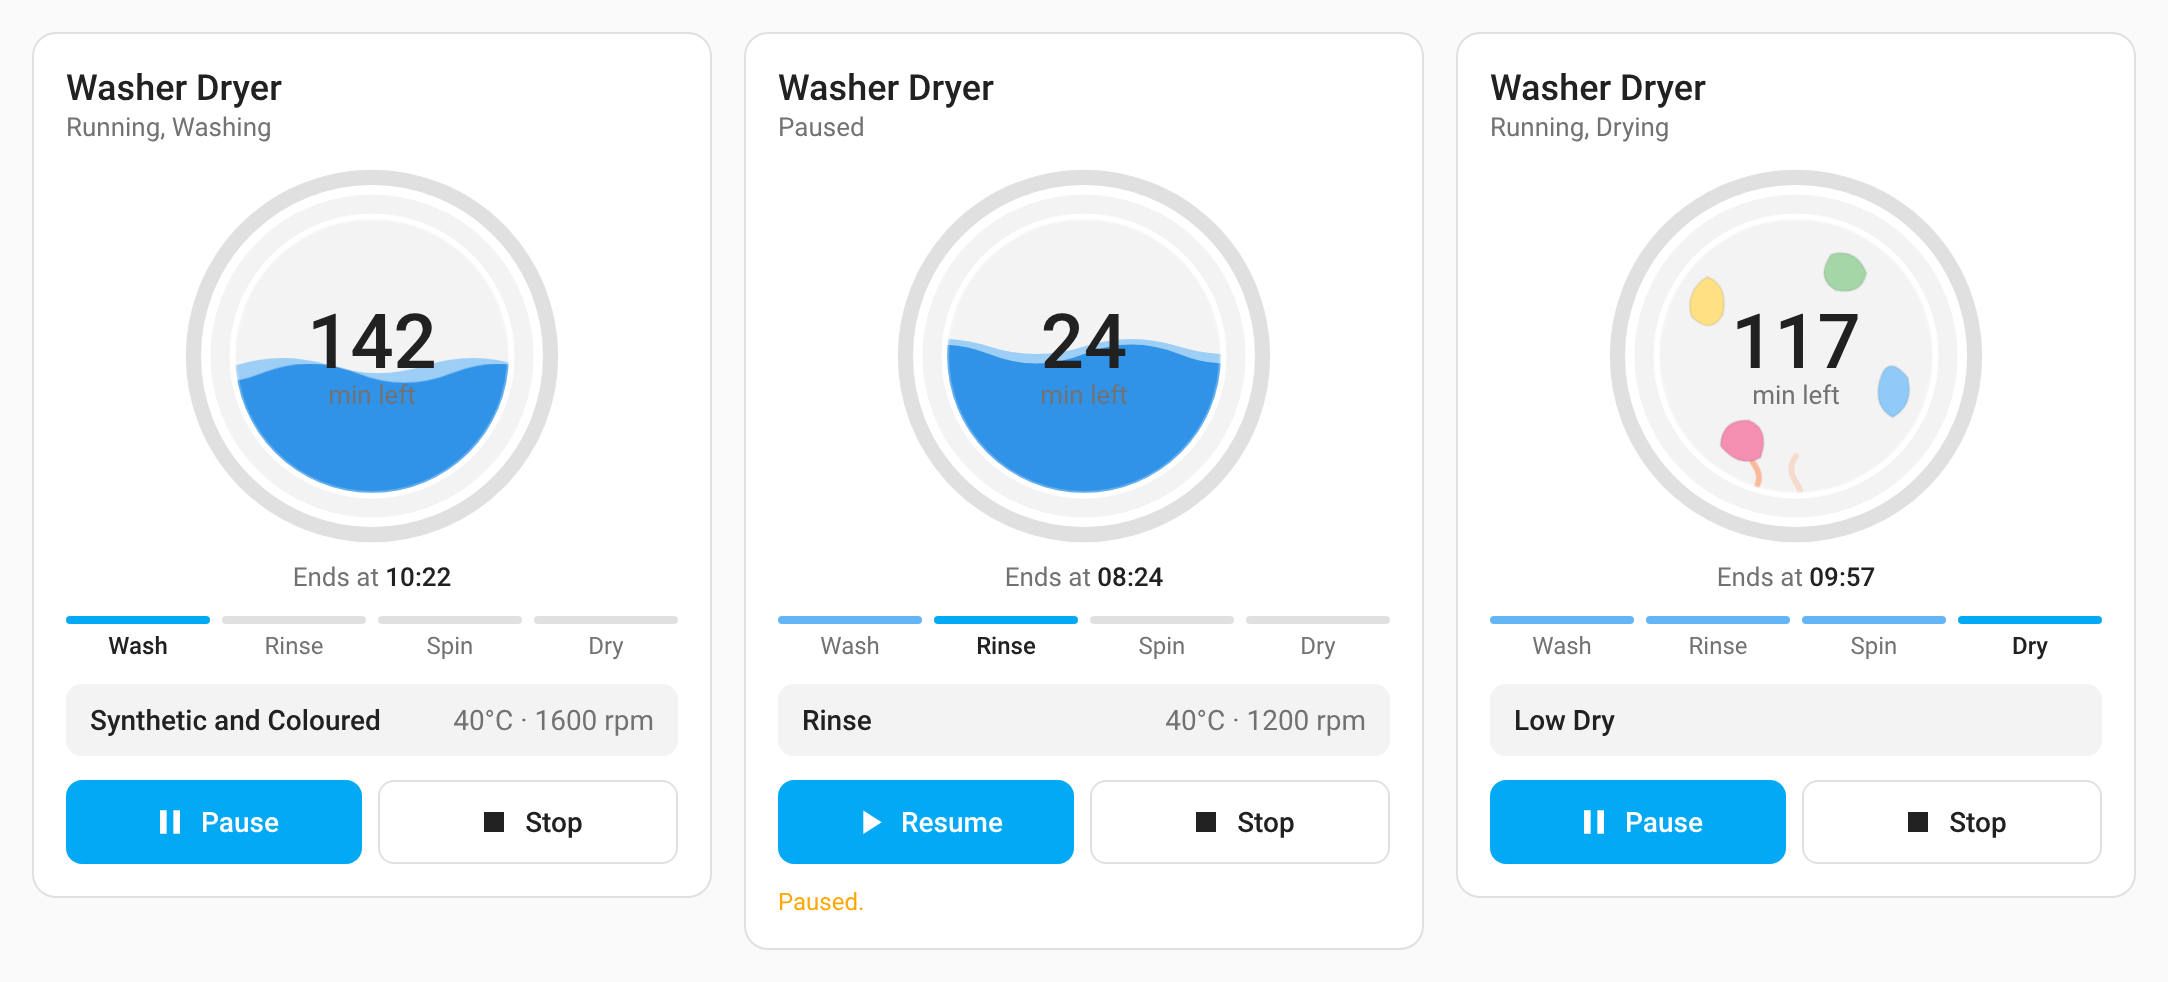
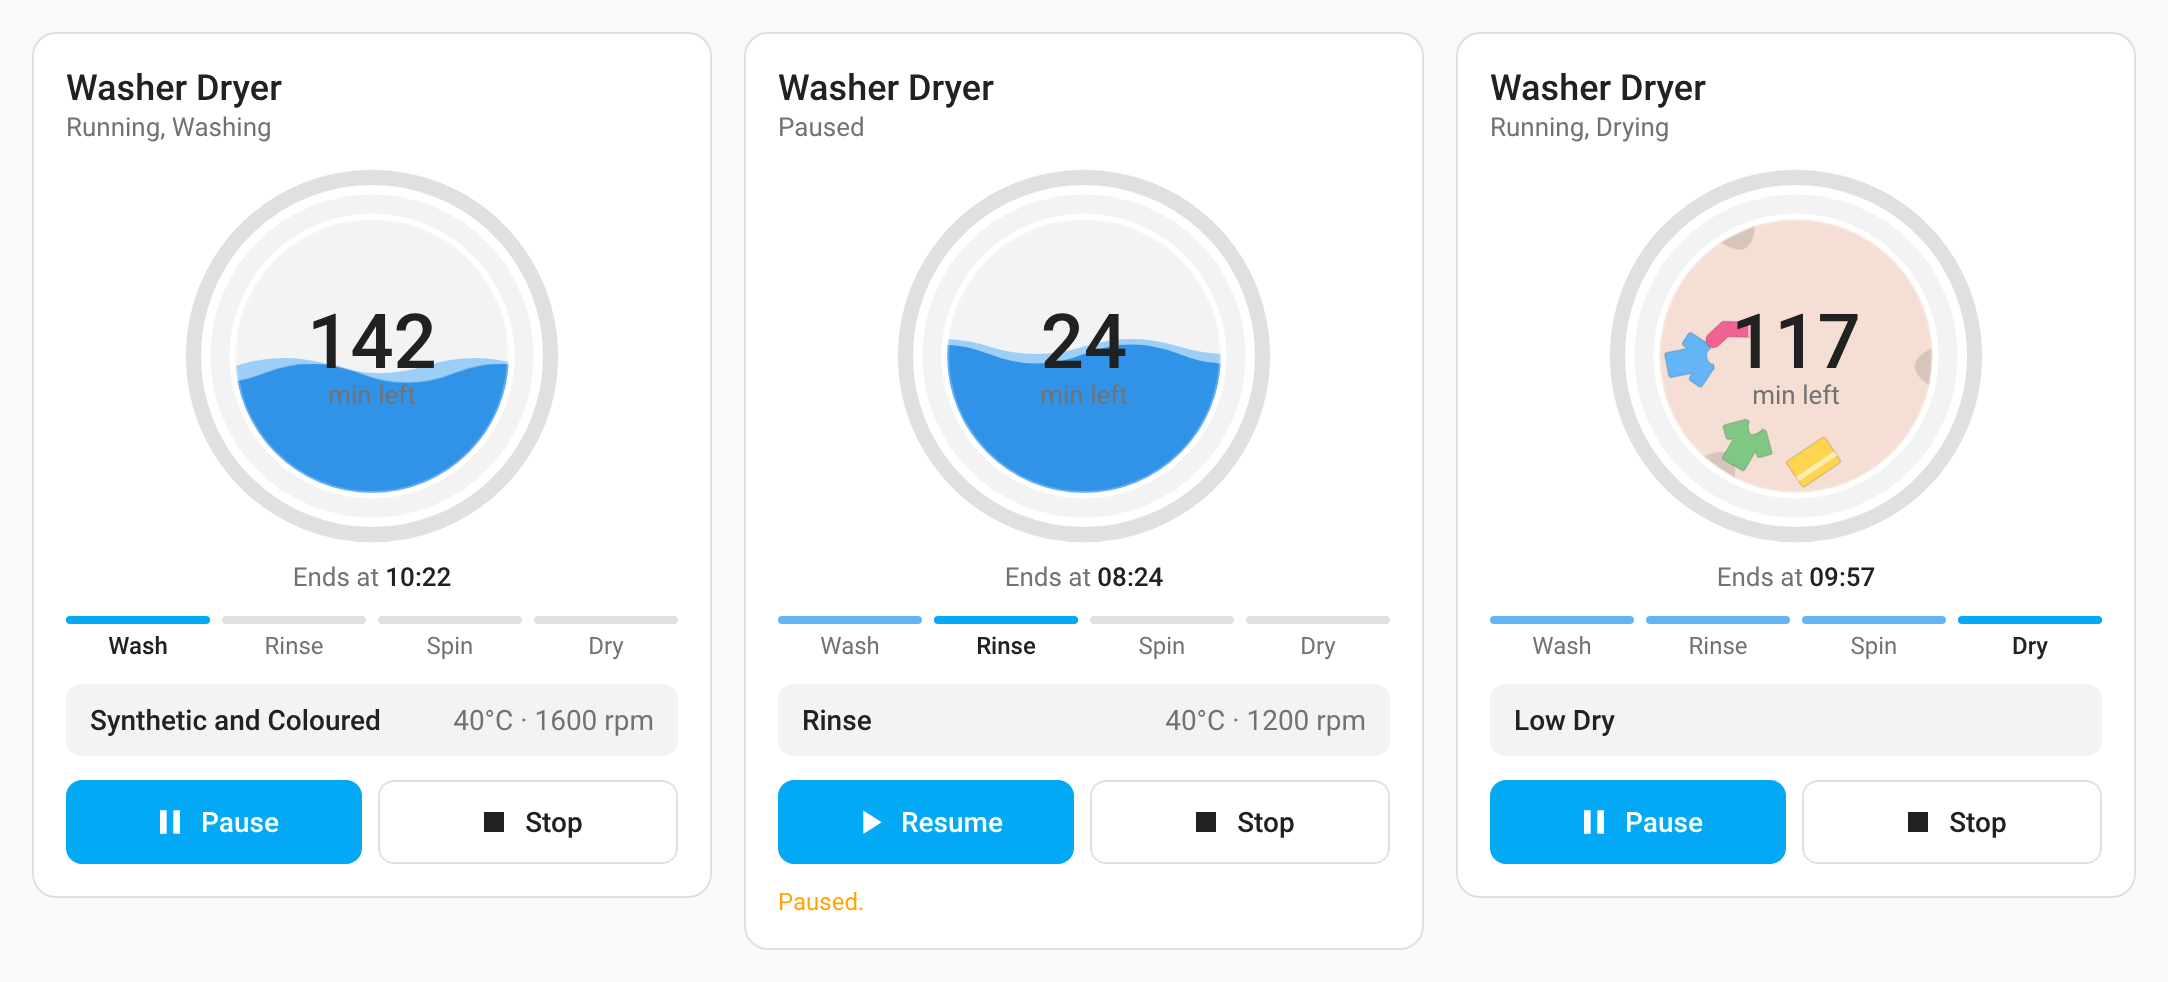
v1.4.0: realistic drying animation
The drum's paddles lift garments (two T-shirts, a sock and a towel) up the
wall, and they drop back across the drum turning as they fall, as in a real
tumble dryer. A warm glow pulses behind them. When paused the clothes settle
at the bottom. T-shirt shapes are Material Design Icons, credited in README.

Claude-Session: https://claude.ai/code/session_019ooXQchu3tRUH9JJA4ag1k

Changed region(s): [[0.7417, 0.2138, 0.8962, 0.5193]]

diff --git a/wash-dryer-card.js b/wash-dryer-card.js
@@ -1,7 +1,7 @@
 // wash-dryer-card — porthole-style card for a Hoover/Haier washer-dryer on the gvigroux/hon integration.
 // Layouts: full | compact. Start runs the catalog selection or a configured favourite.
 // Pause, resume and stop appear when the hon_control integration (darkearth56/hon-control) is installed.
-const VERSION = "1.3.1";
+const VERSION = "1.4.0";
 const DEFAULTS = {
   layout: "full",
   name: "Washer Dryer",
@@ -31,6 +31,25 @@ const STAGES = { wash: [1, 2, 9, 12, 13, 14, 15, 16, 20, 24, 25, 26, 27], rinse:
 const STAGE_LABELS = { wash: "Wash", rinse: "Rinse", spin: "Spin", dry: "Dry" };
 const MODES = { 1: "Starting", 2: "Running", 3: "Paused", 7: "Ready" };
 const BAD = ["unknown", "unavailable", "", undefined, null];
+
+// Garment shapes in a 24x24 box. T-shirts are Material Design Icons (Pictogrammers Free License); sock and towel are drawn here.
+const GARMENTS = {
+  crew: [["M16,21H8A1,1 0 0,1 7,20V12.07L5.7,13.07C5.31,13.46 4.68,13.46 4.29,13.07L1.46,10.29C1.07,9.9 1.07,9.27 1.46,8.88L7.34,3H9C9,4.1 10.34,5 12,5C13.66,5 15,4.1 15,3H16.66L22.54,8.88C22.93,9.27 22.93,9.9 22.54,10.29L19.71,13.12C19.32,13.5 18.69,13.5 18.3,13.12L17,12.12V20A1,1 0 0,1 16,21"]],
+  vneck: [["M16,21H8A1,1 0 0,1 7,20V12.07L5.7,13.07C5.31,13.46 4.68,13.46 4.29,13.07L1.46,10.29C1.07,9.9 1.07,9.27 1.46,8.88L7.34,3H9C9.29,4.8 10.4,6.37 12,7.25C13.6,6.37 14.71,4.8 15,3H16.66L22.54,8.88C22.93,9.27 22.93,9.9 22.54,10.29L19.71,13.12C19.32,13.5 18.69,13.5 18.3,13.12L17,12.12V20A1,1 0 0,1 16,21"]],
+  sock: [["M9 2h6v10l3.8 3.8a3 3 0 0 1 -4.2 4.2l-5 -5A2 2 0 0 1 9 13.6z"], ["M9 2h6v2.2H9z", "trim"]],
+  towel: [["M4 6h16a1 1 0 0 1 1 1v10a1 1 0 0 1 -1 1H4a1 1 0 0 1 -1 -1V7a1 1 0 0 1 1 -1z"], ["M3 13h18v2H3z", "trim"]],
+};
+// Each garment is lifted up the drum wall by the paddles, then drops back across the drum, turning as it falls.
+const TUMBLE = [
+  { kind: "crew", fill: 1, begin: 0, spin: "0;110;300;360", rest: [84, 150, -25],
+    path: "M100,156 A56,56 0 0,1 52.5,70.3 Q80,72 116,150 L100,156", points: "0;0.494;0.929;1" },
+  { kind: "sock", fill: 2, begin: 1.1, spin: "0;120;-60;0", rest: [118, 148, 35],
+    path: "M100,152 A52,52 0 0,1 51.1,82.2 Q76,80 108,146 L100,152", points: "0;0.501;0.950;1" },
+  { kind: "towel", fill: 3, begin: 2.2, spin: "0;100;270;360", rest: [101, 156, 6],
+    path: "M100,158 A58,58 0 0,1 56.9,61.2 Q86,66 124,152 L100,158", points: "0;0.487;0.910;1" },
+  { kind: "vneck", fill: 4, begin: 3.3, spin: "0;115;-70;0", rest: [97, 139, -70],
+    path: "M100,154 A54,54 0 0,1 51.5,76.3 Q78,76 112,148 L100,154", points: "0;0.496;0.939;1" },
+];
 
 const esc = (v) => String(v ?? "").replace(/[&<>"']/g, (c) => ({ "&": "&amp;", "<": "&lt;", ">": "&gt;", '"': "&quot;", "'": "&#39;" })[c]);
 const icon = (name, size = 20) => `<ha-icon icon="${esc(name)}" style="--mdc-icon-size:${size}px"></ha-icon>`;
@@ -150,19 +169,27 @@ class WashDryerCard extends HTMLElement {
           <path class="wave front" d="M-100 4 Q-75 -6 -50 4 T0 4 T50 4 T100 4 T150 4 T200 4 T250 4 T300 4 V200 H-100 Z"/>
         </g>
       </g>
-      ${level === "dry" ? `<g clip-path="url(#${id})" class="dryer ${s.active && !s.paused ? "moving" : ""}">
-        <g class="heat">
-          <path d="M78 170 q5 -7 0 -14 t0 -14"/><path d="M100 174 q5 -7 0 -14 t0 -14"/><path d="M122 170 q5 -7 0 -14 t0 -14"/>
-        </g>
-        <g class="tumble">
-          <path class="cloth c1" d="M100 40 q14 -6 22 4 q-4 12 -20 10 q-12 -2 -2 -14 z"/>
-          <path class="cloth c2" d="M156 108 q8 10 -2 22 q-14 2 -16 -12 q2 -12 18 -10 z"/>
-          <path class="cloth c3" d="M90 158 q-12 6 -22 -4 q2 -12 18 -12 q12 4 4 16 z"/>
-          <path class="cloth c4" d="M44 92 q-6 -12 6 -20 q12 0 12 14 q-4 12 -18 6 z"/>
-        </g>
-      </g>` : ""}
+      ${level === "dry" ? this._dryer(s, id) : ""}
       <circle cx="100" cy="100" r="72" class="shine"/>
     </svg>`;
+  }
+
+  _dryer(s, clip) {
+    const moving = s.active && !s.paused;
+    const shape = (g) => GARMENTS[g.kind].map(([d, cls]) => `<path class="${cls || `cloth c${g.fill}`}" d="${d}"/>`).join("");
+    const paddles = [0, 120, 240].map((a) => `<path d="M90 28.7 Q100 46 110 28.7 Z" transform="rotate(${a} 100 100)"/>`).join("");
+    const items = TUMBLE.map((g) => {
+      const art = `<g transform="translate(-16 -16) scale(1.35)">${shape(g)}</g>`;
+      if (!moving) return `<g transform="translate(${g.rest[0]} ${g.rest[1]}) rotate(${g.rest[2]})">${art}</g>`;
+      const t = `dur="4.4s" repeatCount="indefinite" begin="-${g.begin}s" keyTimes="0;0.55;0.82;1" calcMode="spline" keySplines="0 0 1 1;0.45 0 1 1;0 0 0.5 1"`;
+      return `<g><animateMotion ${t} path="${g.path}" keyPoints="${g.points}"/>
+        <g><animateTransform attributeName="transform" type="rotate" ${t} values="${g.spin}"/>${art}</g></g>`;
+    }).join("");
+    return `<g clip-path="url(#${clip})" class="dryer ${moving ? "moving" : ""}">
+        <circle cx="100" cy="100" r="72" class="glow"/>
+        <g class="paddles">${paddles}</g>
+        ${items}
+      </g>`;
   }
 
   _stagesBar(s) {
@@ -262,7 +289,7 @@ class WashDryerCard extends HTMLElement {
 
 const STYLE = `<style>
   :host { --wd-water-top: #64b5f6; --wd-water-bottom: #1e88e5; --wd-heat: #ff8a50;
-    --wd-cloth-1: #90caf9; --wd-cloth-2: #f48fb1; --wd-cloth-3: #ffe082; --wd-cloth-4: #a5d6a7; }
+    --wd-cloth-1: #64b5f6; --wd-cloth-2: #f06292; --wd-cloth-3: #ffd54f; --wd-cloth-4: #81c784; }
   ha-card { padding: 16px; display: flex; flex-direction: column; gap: 12px; }
   h2 { margin: 0; font-size: 18px; font-weight: 500; color: var(--primary-text-color); }
   .subtitle { margin: 2px 0 0; font-size: 13px; color: var(--secondary-text-color); }
@@ -280,18 +307,16 @@ const STYLE = `<style>
   .level-rinse { transform: translateY(95px); }
   .level-spin { transform: translateY(150px); }
   .level-dry { transform: translateY(200px); }
-  .dryer .heat path { fill: none; stroke: var(--wd-heat); stroke-width: 3; stroke-linecap: round; opacity: 0; }
-  .dryer .cloth { stroke: rgba(0,0,0,.08); stroke-width: 1; }
+  .dryer .glow { fill: var(--wd-heat); opacity: .1; }
+  .dryer.moving .glow { animation: glow 2.2s ease-in-out infinite alternate; }
+  .dryer .paddles { fill: var(--divider-color); transform-origin: 100px 100px; transform-box: view-box; }
+  .dryer.moving .paddles { animation: turn 6.6s linear infinite; }
+  .dryer .cloth { stroke: rgba(0,0,0,.12); stroke-width: .6; }
+  .dryer .trim { fill: rgba(255,255,255,.55); }
   .dryer .c1 { fill: var(--wd-cloth-1); } .dryer .c2 { fill: var(--wd-cloth-2); }
   .dryer .c3 { fill: var(--wd-cloth-3); } .dryer .c4 { fill: var(--wd-cloth-4); }
-  .dryer .tumble { transform-origin: 100px 100px; transform-box: view-box; }
-  .dryer:not(.moving) .heat path { opacity: .25; }
-  .dryer.moving .tumble { animation: tumble 6s linear infinite; }
-  .dryer.moving .heat path { animation: rise 3s ease-in infinite; }
-  .dryer.moving .heat path:nth-child(2) { animation-delay: 1s; }
-  .dryer.moving .heat path:nth-child(3) { animation-delay: 2s; }
-  @keyframes tumble { to { transform: rotate(360deg); } }
-  @keyframes rise { 0% { opacity: 0; transform: translateY(8px); } 40% { opacity: .6; } 100% { opacity: 0; transform: translateY(-10px); } }
+  @keyframes turn { to { transform: rotate(360deg); } }
+  @keyframes glow { from { opacity: .06; } to { opacity: .2; } }
   .moving .wave { animation: drift 4s linear infinite; }
   .moving .wave.back { animation-duration: 6s; }
   @keyframes drift { from { transform: translateX(0); } to { transform: translateX(100px); } }

diff --git a/README.md b/README.md
@@ -10,7 +10,7 @@ Running, paused, and drying, with Pause/Resume and Stop from [hon-control](https
 
 ![Full layout while washing, paused and drying](images/full-states.png)
 
-While drying, laundry tumbles round the drum with warm air rising (it stops moving when paused):
+While drying, the drum's paddles lift the clothes up the side and drop them back across the drum, with a warm glow. When paused, the clothes settle at the bottom:
 
 ![Drying animation](images/drying.gif)
 
@@ -154,6 +154,7 @@ Phase codes follow the gvigroux translations: 1–2, 14–16, 25 and 27 washing;
 
 ## Changelog
 
+- 1.4.0: Drying animation rebuilt to look like a real dryer: paddles lift T-shirts, a sock and a towel up the drum wall and drop them, with a warm glow; paused clothes settle at the bottom.
 - 1.3.1: The drying animation now runs even when the device asks for reduced motion, matching the water animation.
 - 1.3.0: Drying animation: laundry tumbles round the drum with warm air rising, instead of an empty drum.
 - 1.2.2: Default title is now "Washer Dryer".
@@ -167,6 +168,7 @@ Phase codes follow the gvigroux translations: 1–2, 14–16, 25 and 27 washing;
 - The design is based on the `hon-washer-card` from [galvani/hon](https://github.com/galvani/hon): the porthole drum with water that fills by stage, the Wash/Rinse/Spin/Dry progress bar, and the full and compact layouts. The drum's wave shapes are reused from that card under its MIT licence; see `LICENSE`.
 - galvani/hon builds on [mmalolepszy/hon-revived](https://github.com/mmalolepszy/hon-revived), which continues Andre Basche's original [Andre0512/hon](https://github.com/Andre0512/hon) integration.
 - The card reads the sensors created by [gvigroux/hon](https://github.com/gvigroux/hon). Phase names follow that integration's translations.
+- The T-shirt shapes in the drying animation are from [Material Design Icons](https://pictogrammers.com/library/mdi/) (Pictogrammers Free License).
 - Pause, resume and stop come from the companion integration [hon-control](https://github.com/darkearth56/hon-control).
 - Written by darkearth56 with help from Claude (Anthropic), an AI assistant, which helped design, write and test the code and documentation.
 
